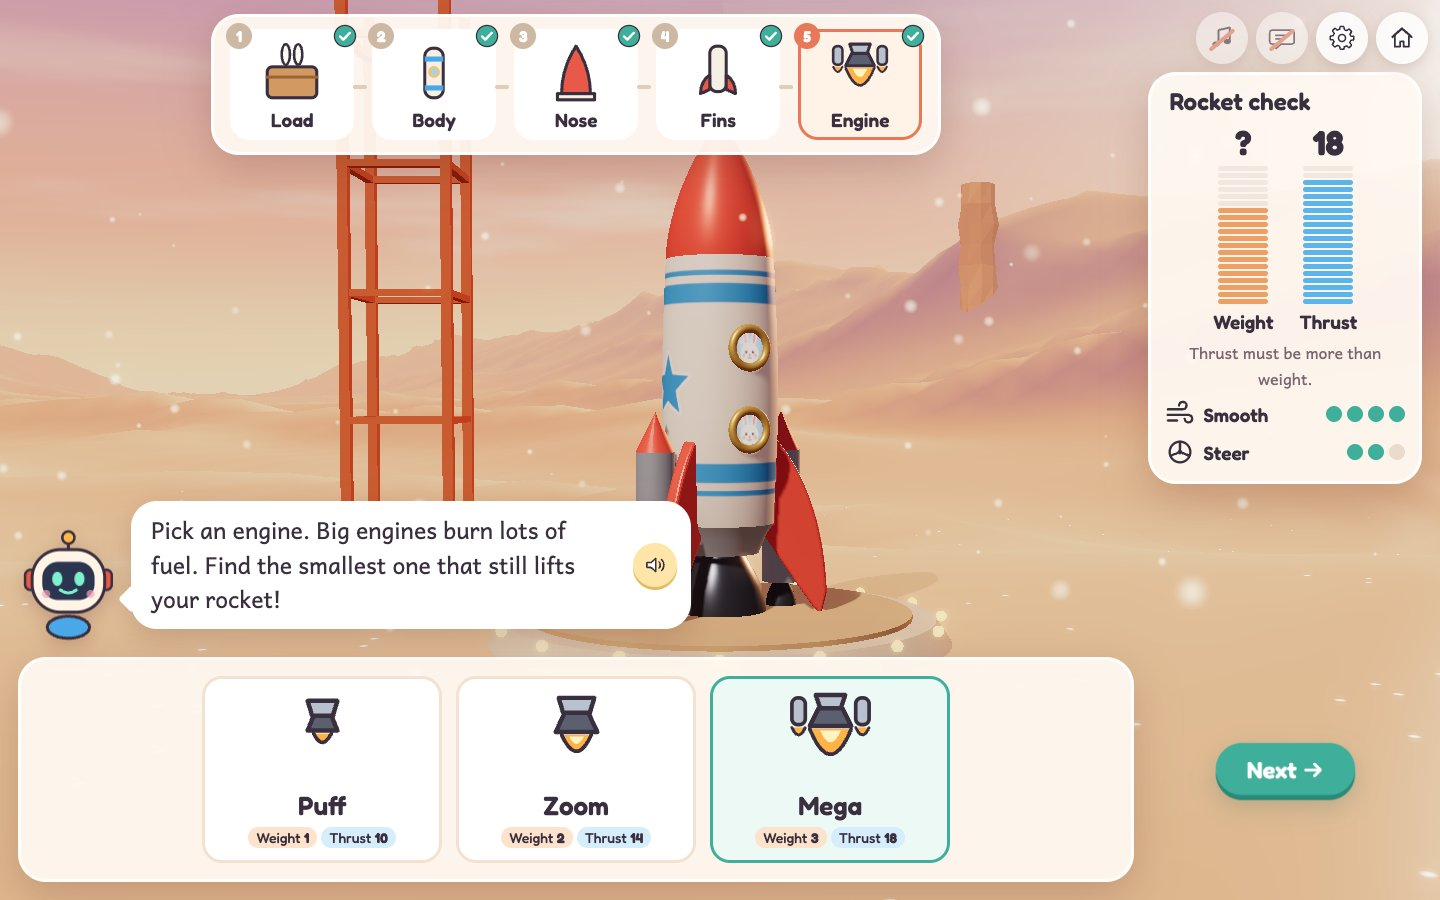
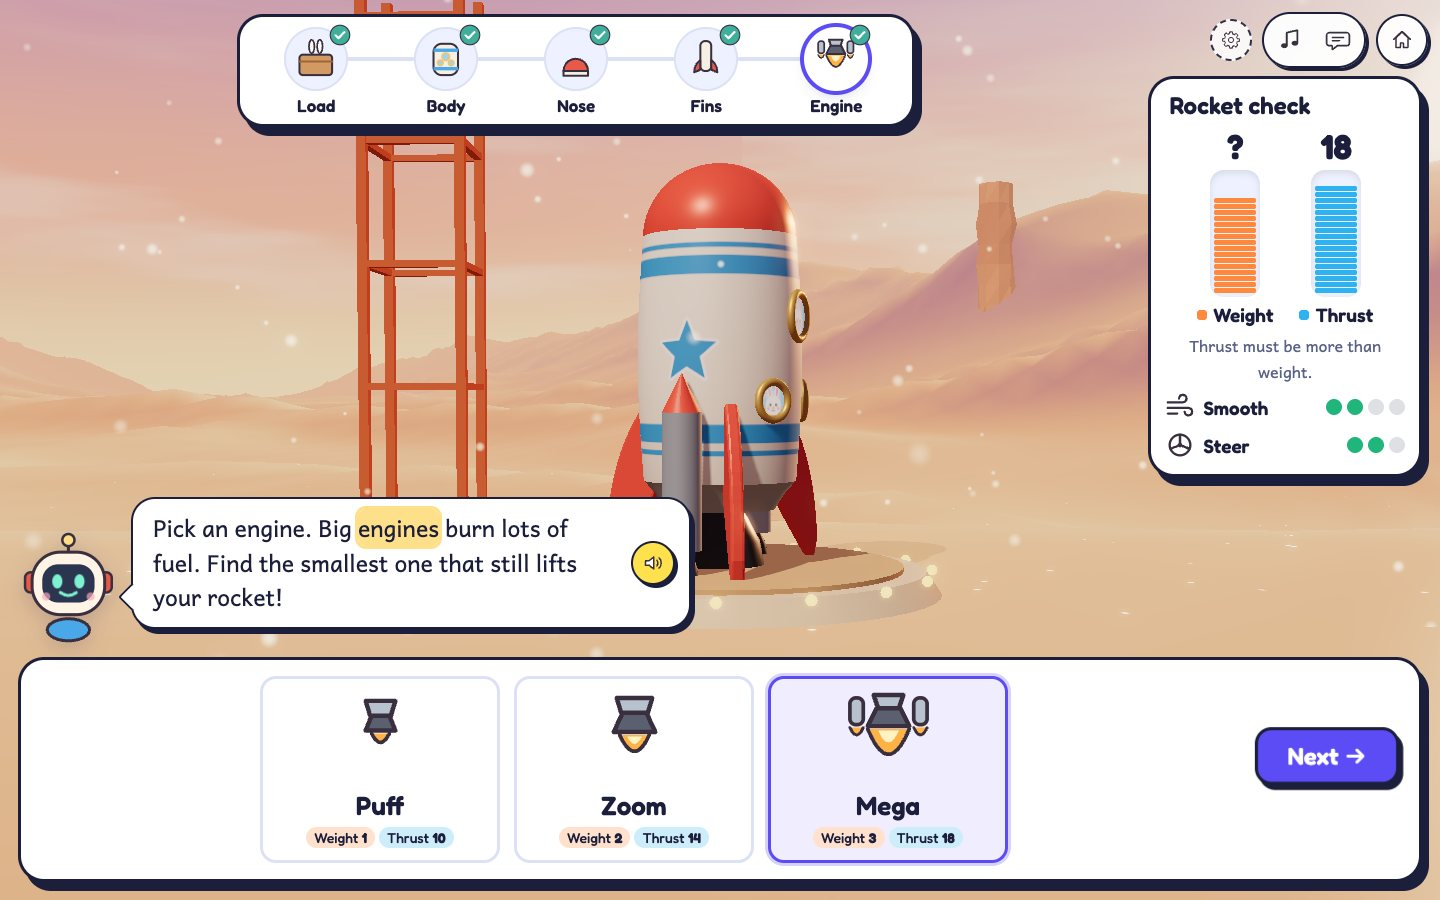
Sky Builders: redesign screenshots and the design system
New screenshots of the redesigned game (build screen, words-first mission
ticket, Help flip in Lantern Night, Engineer check, Will it fly?, Mission
complete), and lines on the design system and its principles next to the
requirements, decision log and functional spec.

diff --git a/index.html b/index.html
@@ -619,8 +619,12 @@
         title: 'Sky Builders', role: 'Personal project · Learning game',
         summary: 'A calm build-and-fly game for early elementary kids: read a mission, build a rocket, check the math, then fly it.',
         images: [
-          { src: 'images/projects/sky-builders-math.jpg', alt: 'Engineer check: the parts weigh 7, the cargo weighs 7, how much does the whole rocket weigh?', ar: '16 / 10' },
-          { src: 'images/projects/sky-builders-build.jpg', alt: 'Building the rocket: picking an engine, with a weight versus thrust gauge', ar: '16 / 10' },
+          { src: 'images/projects/sky-builders-build.jpg', alt: 'Building the rocket: a path of build steps across the top, the rocket in the middle, engine choices in a dock, and a weight versus thrust check', ar: '16 / 10' },
+          { src: 'images/projects/sky-builders-mission.jpg', alt: 'The mission card as a ticket that leads with words, one sentence per line, with a Help button', ar: '16 / 10' },
+          { src: 'images/projects/sky-builders-help.jpg', alt: 'Help flips the mission ticket to pictures and reads it aloud, lighting up each word, in the dark Lantern Night theme', ar: '16 / 10' },
+          { src: 'images/projects/sky-builders-math.jpg', alt: 'Engineer check: add the parts and cargo weight, with blocks in rows of five and four answer keys', ar: '16 / 10' },
+          { src: 'images/projects/sky-builders-guess.jpg', alt: 'Will it fly? Blue thrust blocks push up and orange weight blocks pull down, with Yes and No in the same neutral style', ar: '16 / 10' },
+          { src: 'images/projects/sky-builders-win.jpg', alt: 'Mission complete: four stars, one read-aloud button, and a one-row bonus question about why it flew', ar: '16 / 10' },
           { src: 'images/projects/sky-builders-fly.jpg', alt: 'Flying the rocket low over the Golden Dunes toward a ring', ar: '16 / 10' },
           { src: 'images/projects/sky-builders-nebula.jpg', alt: 'Flying the star fighter through the Lantern Nebula past a marbled planet and floating rocks', ar: '16 / 10' }
         ],
@@ -629,7 +633,8 @@
           'Kids read a short mission, build a rocket step by step (cargo, body, nose, fins, engine), paint it, then fly it through rings.',
           'Turns physics into early elementary math. Before launch, an "engineer check" asks kids to add the parts and cargo weight, then compare weight to thrust.',
           'Designed for early elementary readers: very low difficulty, gentle failures with a one-sentence hint, three tries with growing hints, and a read-aloud British voice.',
-          'Ran it like a product: a decision log and functional spec kept current with every change, simulated pilots to check every course is easy, and playtests from screenshots.',
+          'Ran it like a product: written requirements, a decision log, a functional spec, and a design system, all kept current with every change, plus simulated pilots to check every course is easy and playtests from screenshots.',
+          'Built on a design system with clear principles. A critique of every screen led to an interactive lab where I compared layouts and styles, then picked one set of tokens and components with two themes: Storybook Bold for daytime worlds and Lantern Night for space. Each screen has one primary action, each color has one job (orange is always weight, blue is always thrust), and mission cards lead with words, with a Help button that flips to pictures and reads aloud, so kids read instead of guessing.',
           'Three levels shipped on a nine-level plan: a rocket over the Golden Dunes, a jet through the Sea of Clouds, and a star fighter in the Lantern Nebula, where kids learn there\'s no air in space, so wings make no lift. Installable offline web app with touch steering for iPad.'
         ]
       },
